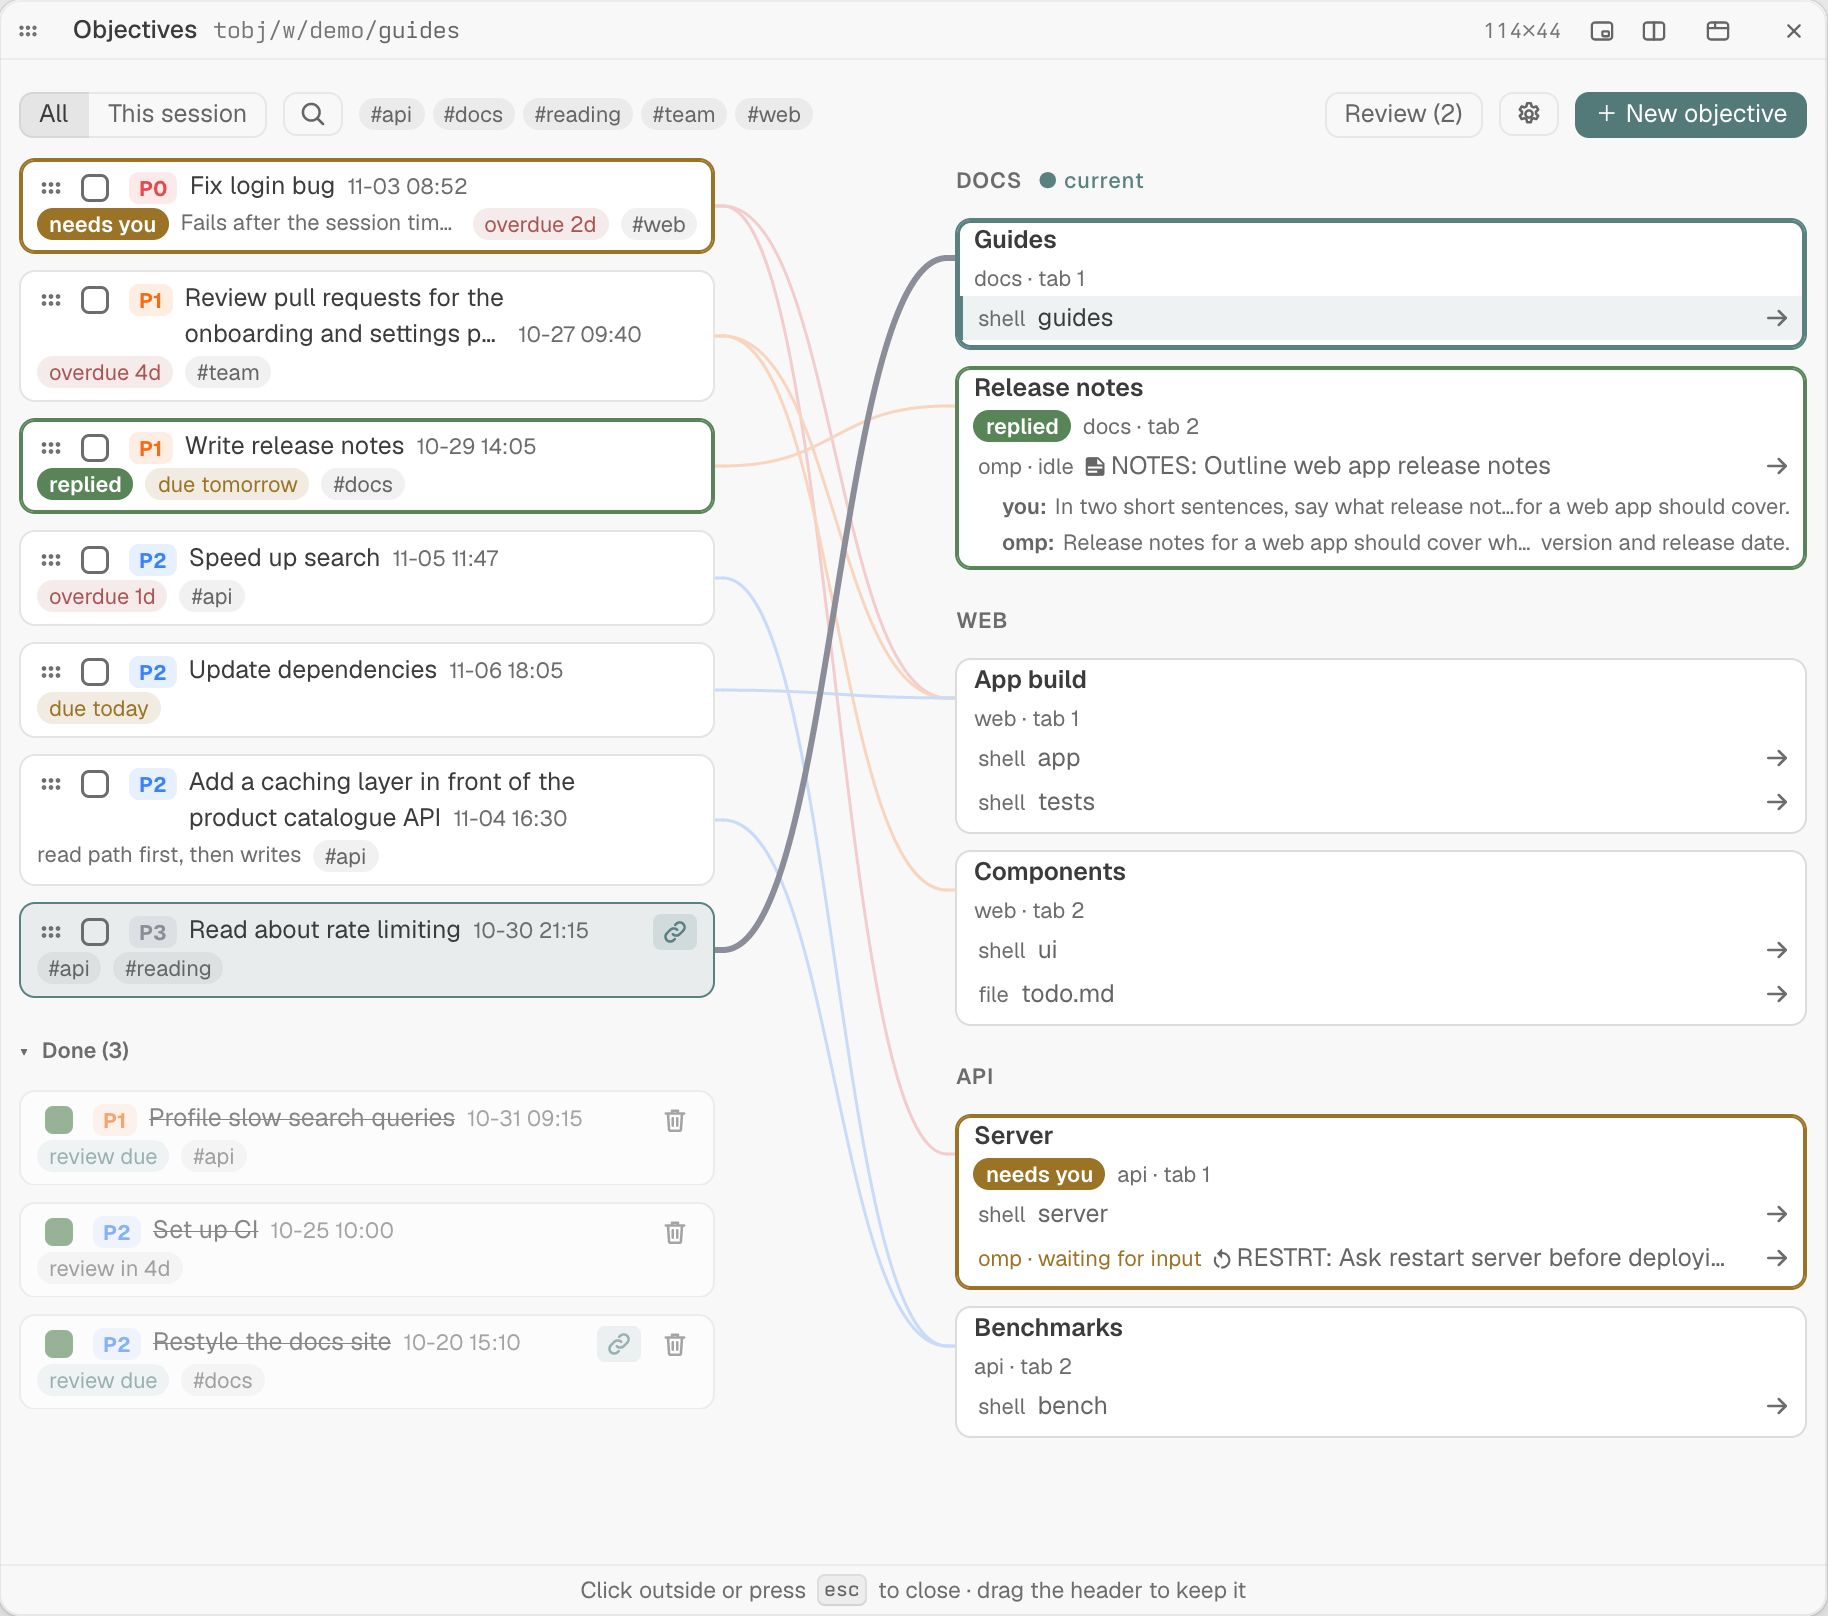
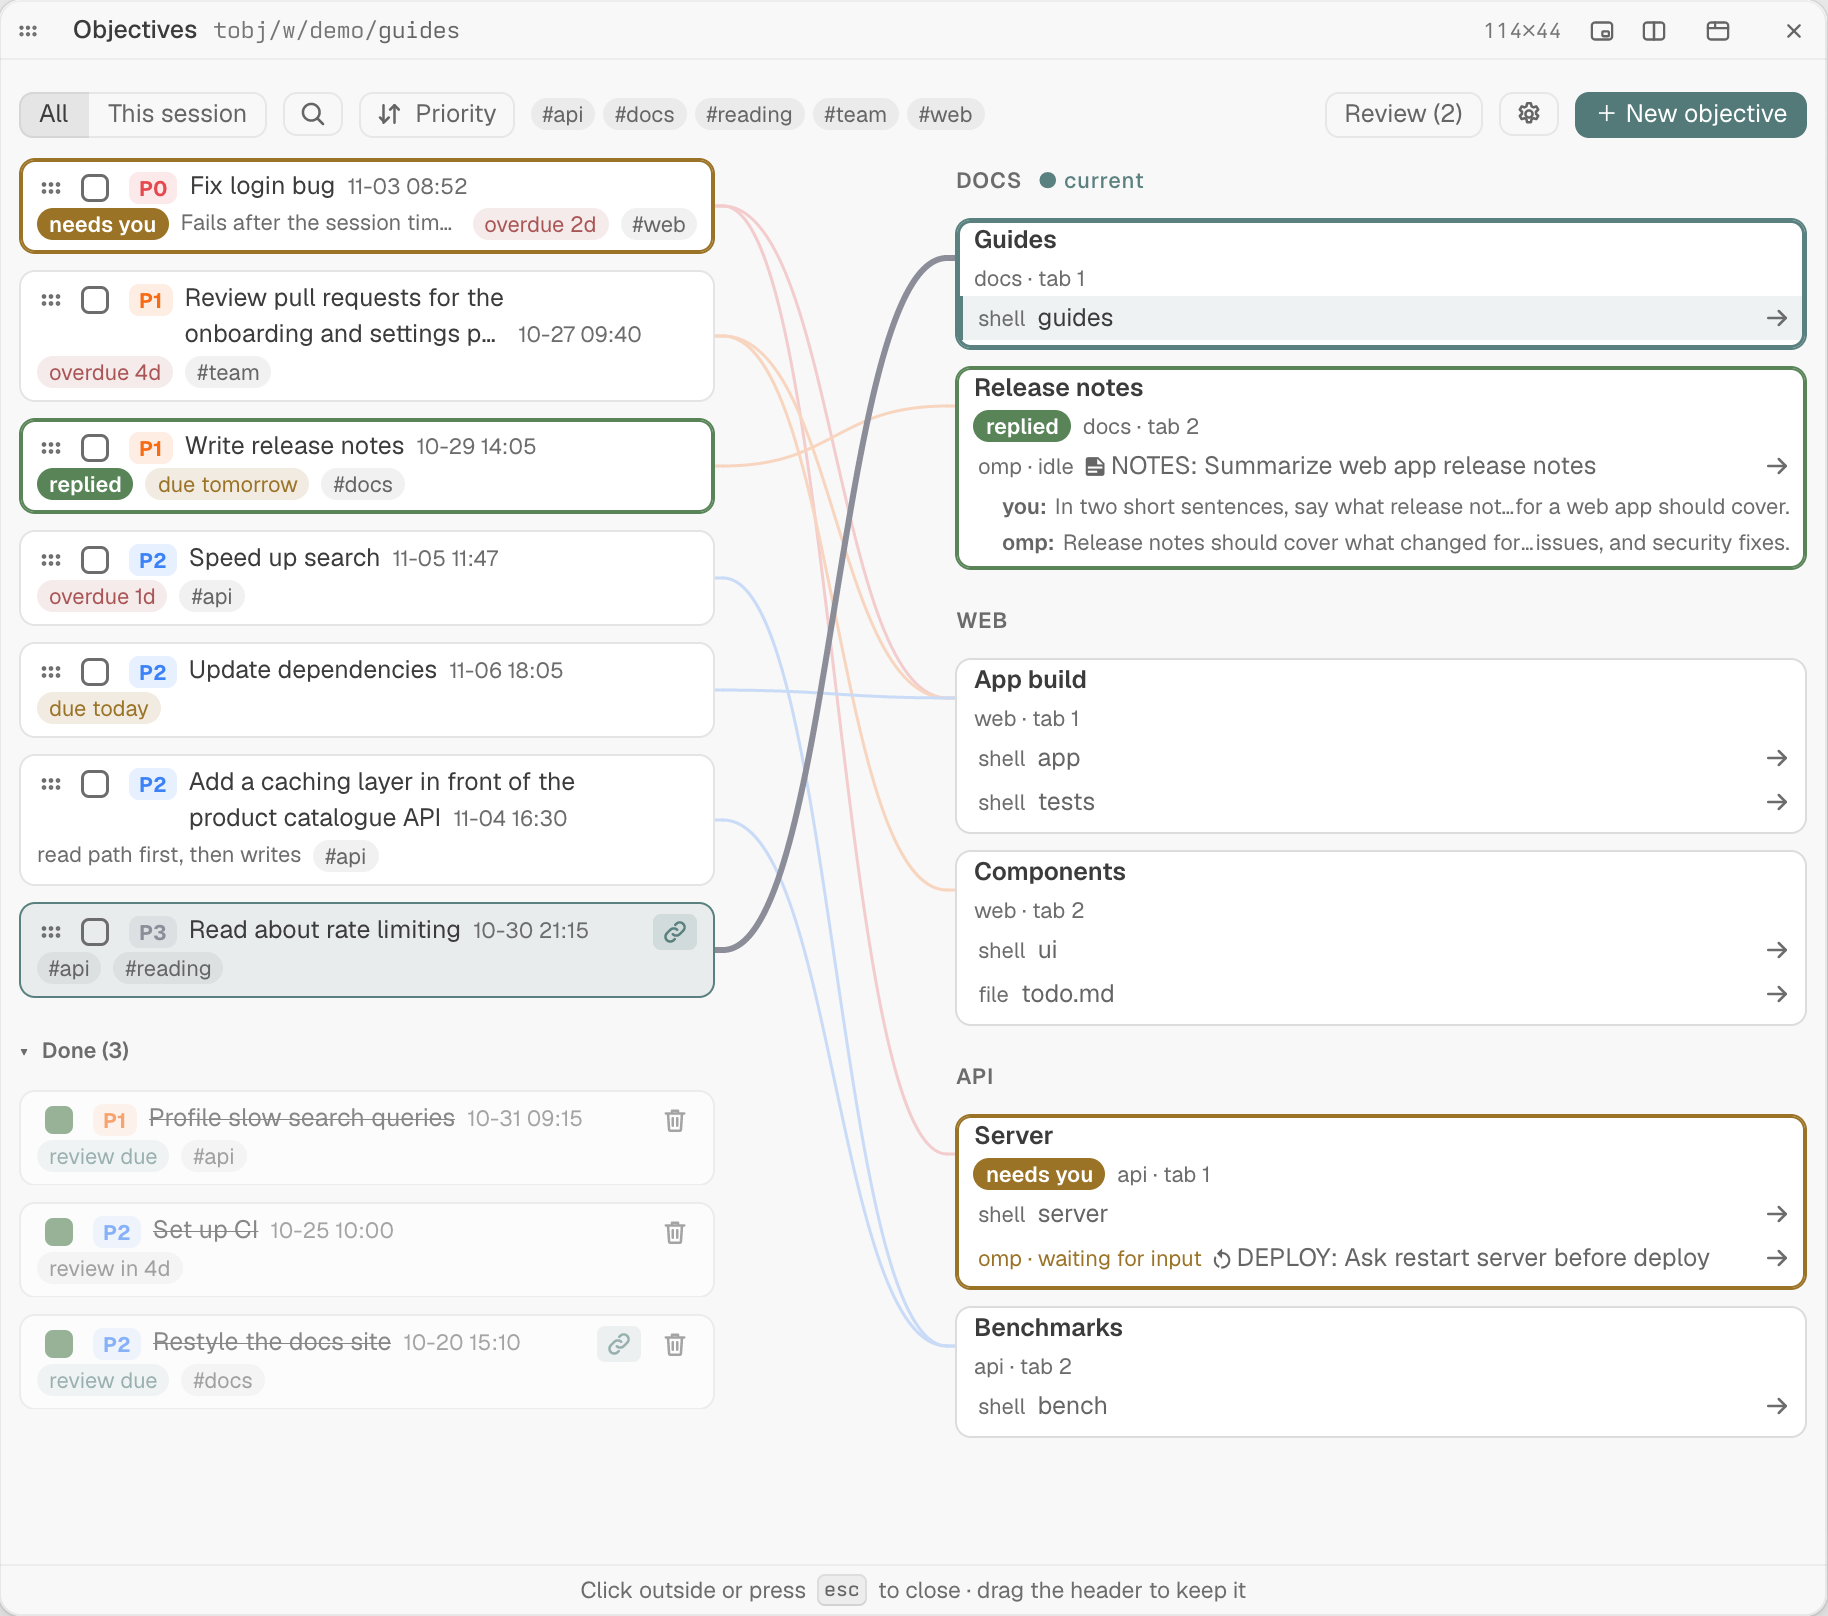
Retake both README screenshots with the sort button

diff --git a/README.md b/README.md
@@ -2,7 +2,7 @@
 
 A [Tern](https://docs.stencil.so/tern) plugin for keeping track of what you are working on across sessions, and for remembering what you finished. It keeps one list of objectives and links each one to the tabs where its work happens, shown as a graph: objectives on the left, tabs on the right, a line for every link. Click a tab or pane to jump straight to it, in any session. Finished objectives come back for review on a spaced-repetition schedule, so you revisit what you did before you forget it.
 
-![The objectives graph, opened from the Guides tab: open objectives on the left by priority, P0 first, each with a grip to move it, a priority, due date and tags, two of them with titles wrapped onto two lines; "Fix login bug" ringed in amber with a "needs you" chip, and "Write release notes" in green with "replied"; "Read about rate limiting", which links Guides, tinted, with a thick line to Guides while the other lines fade, and its link icon highlighted at the right of its title; below them the open Done group, its objectives marked "review due" or "review in 4d", where "Restyle the docs site", which also links Guides, shows its highlighted link icon beside its trash icon; the header has a Search button after All and This session, "Review (2)", a gear button for Configure and "＋ New objective"; tabs grouped by session on the right, with a line for each link: "Release notes" ringed in green with "replied", its open chat row showing "you:" and "omp:", and "Server" ringed in amber with "needs you" for its omp chat waiting for input](docs/graph.png)
+![The objectives graph, opened from the Guides tab: open objectives on the left by priority, P0 first, each with a grip to move it, a priority, due date and tags, two of them with titles wrapped onto two lines; "Fix login bug" ringed in amber with a "needs you" chip, and "Write release notes" in green with "replied"; "Read about rate limiting", which links Guides, tinted, with a thick line to Guides while the other lines fade, and its link icon highlighted at the right of its title; below them the open Done group, also by priority, its objectives marked "review due" or "review in 4d", where "Restyle the docs site", which also links Guides, shows its highlighted link icon beside its trash icon; the header has a Search button and a sort button reading "Priority" after All and This session, "Review (2)", a gear button for Configure and "＋ New objective"; tabs grouped by session on the right, with a line for each link: "Release notes" ringed in green with "replied", its open chat row showing "you:" and "omp:", and "Server" ringed in amber with "needs you" for its omp chat waiting for input](docs/graph.png)
 
 ## Features
 
@@ -23,7 +23,7 @@ Marking an objective done schedules its first review for the next day, on the SM
 
 Review mode stays on when you close the graph: the next time you open it in the same window, it lists what is due then. Click the active **Review (n)** to leave it. ⌥N leaves it too, so the new objective shows in the list. Restarting Tern forgets it.
 
-![Review mode: two done objectives due for review, each with Hard, Good and Easy buttons showing the days until its next review (Hard · 1d, Good · 3d, Easy · 4d for one, Hard · 2d, Good · 10d, Easy · 14d for the other); the selected one shows its Note and Tags buttons and has a green line to the tab it was linked to, listed under "Linked to" at the top of the right column, where every tab offers "× Unlink" or "＋ Link"; the other links Guides, the tab the graph was opened from, so its link icon is highlighted beside its trash icon; the header has the Search button after All and This session](docs/review.png)
+![Review mode: two done objectives due for review, each with Hard, Good and Easy buttons showing the days until its next review (Hard · 1d, Good · 3d, Easy · 4d for one, Hard · 2d, Good · 10d, Easy · 14d for the other); the selected one shows its Note and Tags buttons and has a green line to the tab it was linked to, listed under "Linked to" at the top of the right column, where every tab offers "× Unlink" or "＋ Link"; the other links Guides, the tab the graph was opened from, so its link icon is highlighted beside its trash icon; the header has the Search button and the sort button reading "Priority" after All and This session](docs/review.png)
 
 ## Install
 

diff --git a/openspec/changes/sort-button/tasks.md b/openspec/changes/sort-button/tasks.md
@@ -97,7 +97,7 @@ Checks run in the headless harness at `/tmp/tobj` unless marked **(live)**.
 
 ## 2. The README screenshots
 
-- [ ] 2.1 Take `docs/graph.png` and `docs/review.png` again, from the store saved in `/tmp/tobj/kv.demo-0250.json`, sorted by priority, so the header shows the sort button reading "Priority":
+- [x] 2.1 Take `docs/graph.png` and `docs/review.png` again, from the store saved in `/tmp/tobj/kv.demo-0250.json`, sorted by priority, so the header shows the sort button reading "Priority":
   - **`graph.png`:**
     - Release notes' omp chat replies while Guides has focus, and Server's waits for input;
     - the same window size (`ctl resize 1045 928`) and crop (914 × 808);
@@ -114,6 +114,29 @@ Checks run in the headless harness at `/tmp/tobj` unless marked **(live)**.
   - both headers show the sort button reading "Priority", right after the Search button;
   - every line end in both shots sits within 2 px of its node and tab header centres, read from the layout JSON;
   - the user approved both drafts.
+
+  Result (harness, 2026-11-18, the same serve as group 1):
+  - **Store:** the saved store's due and review dates were fixed on 2026-11-16, so two days later its chips read "overdue 4d" and "review in 2d". It was written again from the same records, with dates counted from today as before and `sort` "priority", and saved as `/tmp/tobj/kv.demo-0270.json`. The chips read as in 0.26.0's screenshots again.
+  - **Chats:** with Guides focused, Release notes' chat answered "In two short sentences, say what release notes for a web app should cover." (`idle` with its alert). Server's chat asked "Restart the server before deploying?" and waited (`waiting_input`). Both took 5 s.
+  - **`graph.png`** (1828 × 1616):
+    - `ctl resize 1045 928`, opened from pane 2 in Guides, the pointer at (3, 3). The glimpse was at 914.31 × 808.08, as before, and was cropped there;
+    - the first shot caught Tern's two chat banners over the top right corner. The shot was taken again once `ctl state` listed no banners;
+    - the header reads All, This session, Search, ⇅ Priority, the tag chips, "Review (2)", ⚙, "＋ New objective";
+    - the open objectives are P0 to P3 as before. The Done group, sorted by priority, reads "Profile slow search queries" (P1), "Set up CI", "Restyle the docs site" (P2, the later done first), the same order as 0.26.0's most recently done first;
+    - all 7 open nodes have grips, no node has ⋯, and the marks and highlighted link icons are as in 0.26.0;
+    - all 7 left and 6 right line ends sit within 0.3 px of their centres, measured 3 px inside the gap.
+  - **`review.png`** (1828 × 857):
+    - review mode, opened from Guides, with "Profile slow search queries" selected: its Note and Tags row, and Benchmarks under `Linked to` with "× Unlink". A first try at selecting it clicked its trash icon and removed it; the store was written again and the review shot taken from it;
+    - the header shows ⇅ Priority right after the Search button;
+    - cropped from the glimpse's top to 8 px below the Guides node;
+    - the one green line's ends sit within 0.4 px. The gap column's other marks were at y 873 and 905, in the footer below the crop.
+  - **Alt texts:** both name the sort button reading "Priority", and `graph.png`'s says the Done group is by priority too.
+  - **README checks:** the README has two images, `docs/graph.png` first (line 5), then `docs/review.png` (line 26). "README contents" still holds: the graph shot has the Done group open and Server marked "needs you", and the review shot has Hard, Good and Easy.
+  - **Approval:** the user approved both drafts before they were committed.
+  - **Cleanup:**
+    - the serve was stopped with `ctl quit`;
+    - the chat folders `--private-tmp-tobj-w-demo-notes--` and `--private-tmp-tobj-w-demo-serverchat--`, created today, were removed;
+    - `--private-tmp-tobj-w-docs--` and `--private-tmp-tobj-w-server--`, from earlier runs, were left as they were.
 
 ## 3. Release 0.27.0
 
